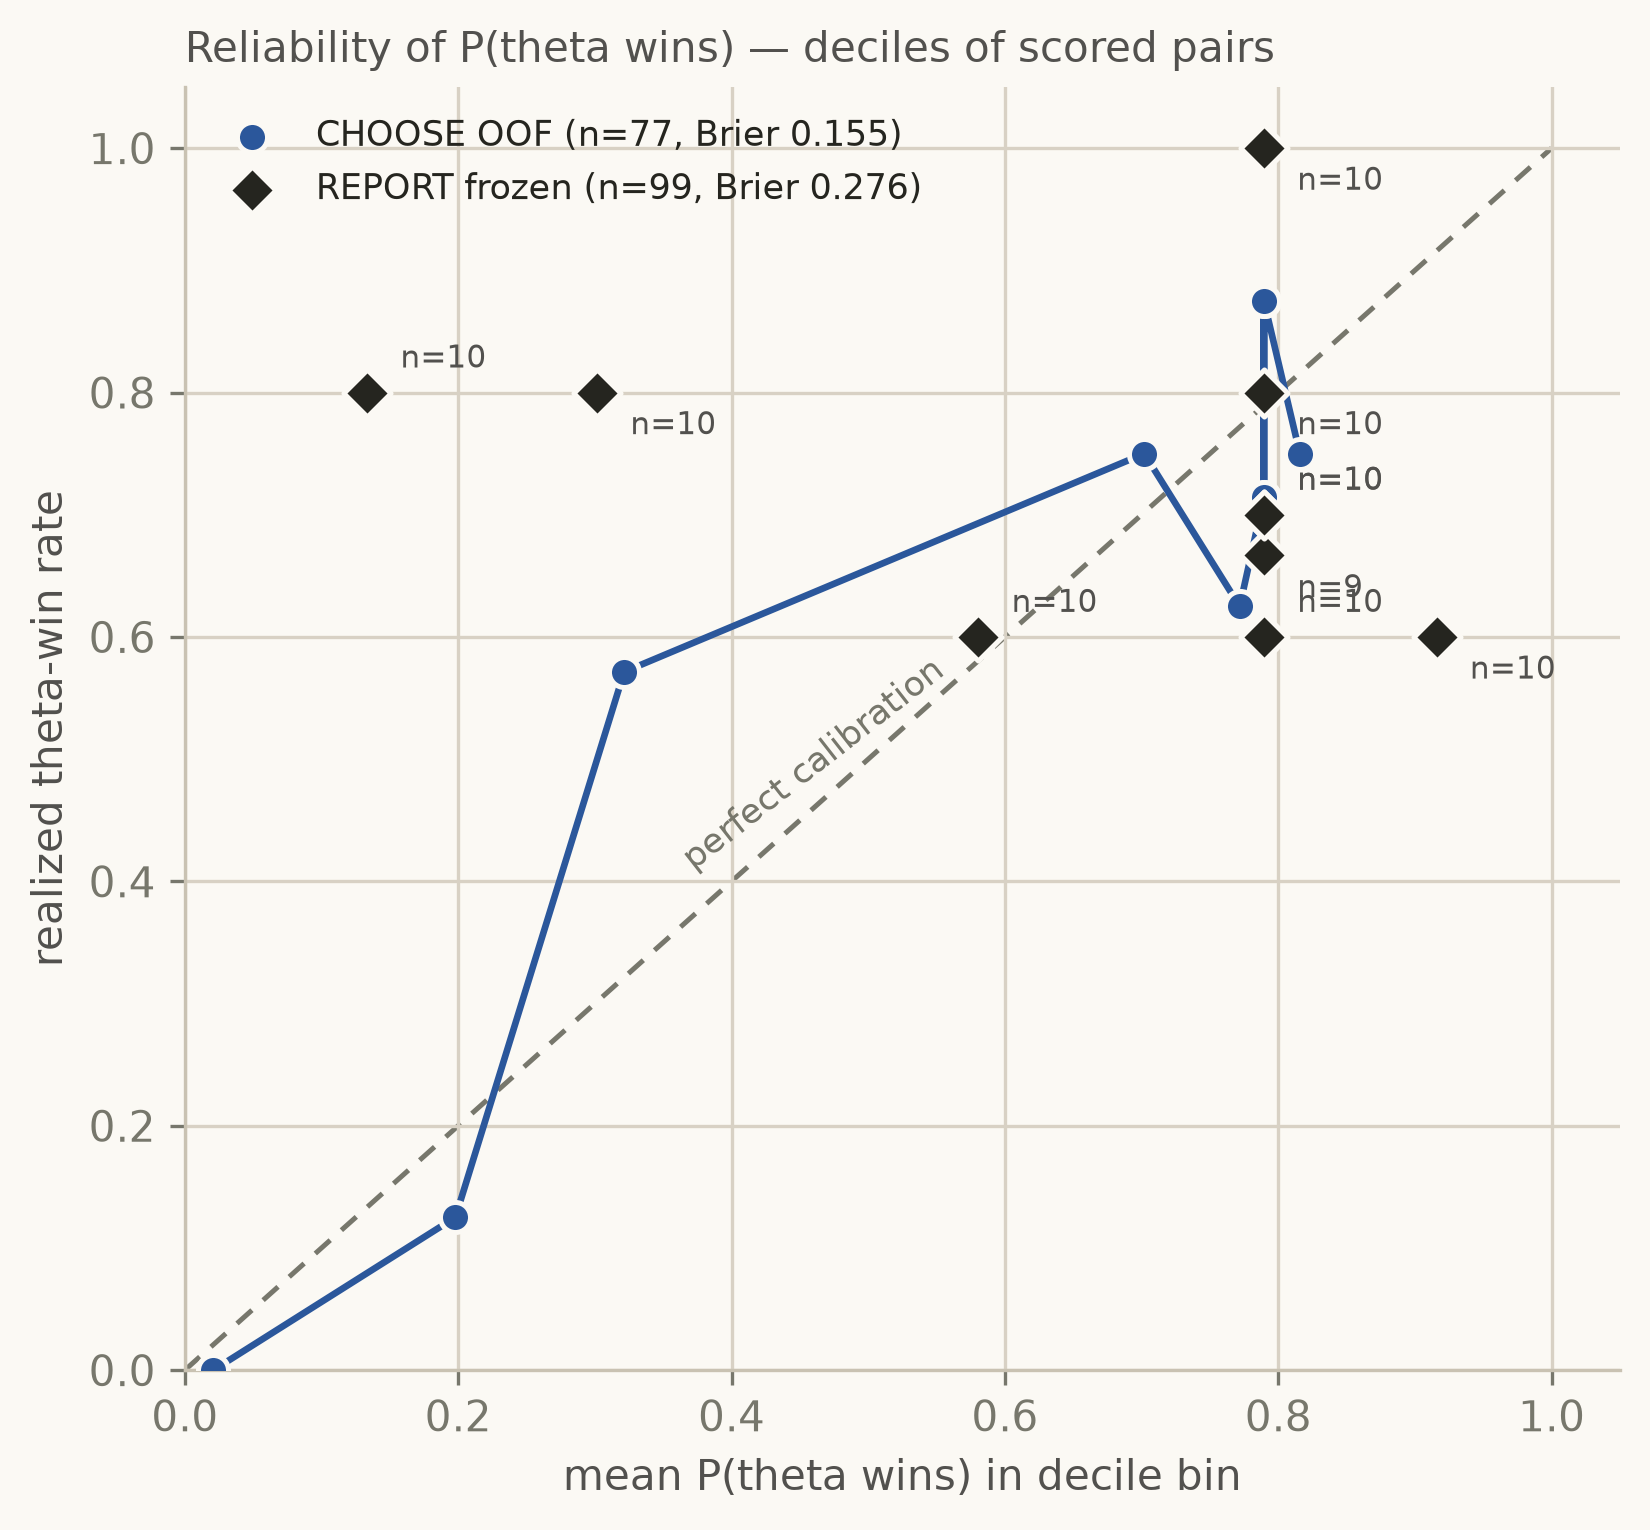
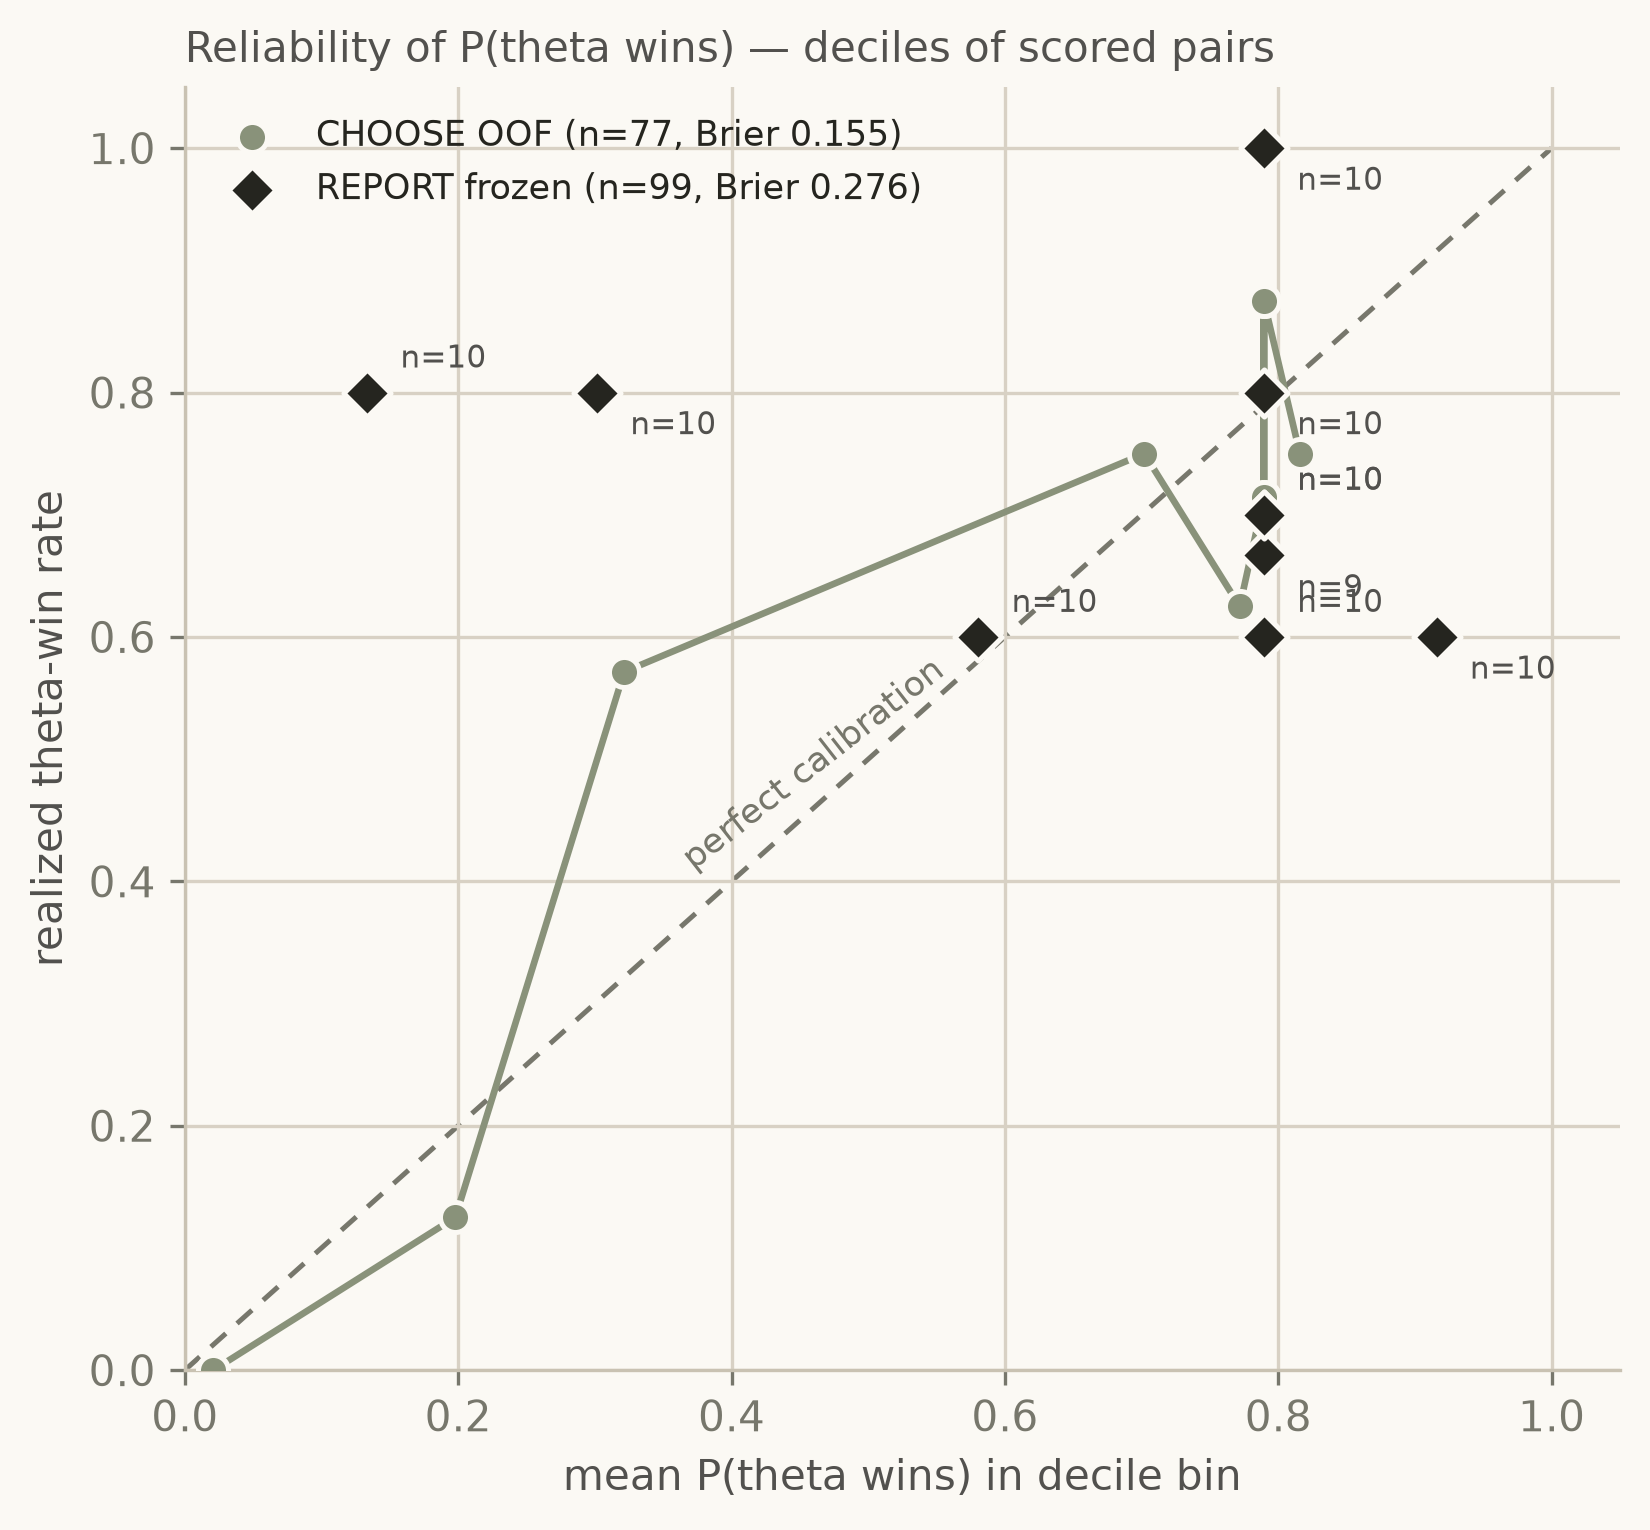
Figures and lab adopt the muted pastel theme palette
Owner direction: the theme's own anchors - sage policy, muted red theta
- plus two soft complements, fuji pale periwinkle naive and yamabuki
muted apricot LightGBM; no dark blue, no gray. All-muted palettes trade
strict categorical-gate compliance for the aesthetic (worst adjacent
pair sage-apricot protan 9.2 / normal 13.6); identity is carried by the
direct value labels, legends, and tooltips every figure and component
provides, plus lightness spread and bar order. Captions say sage.

diff --git a/frontend/src/content/story.ts b/frontend/src/content/story.ts
@@ -219,8 +219,8 @@ export const storyChapters: StoryChapter[] = [
         figure: {
           src: storyImage('policy_categories_report.png'),
           caption:
-            'Per-category WAPE delta, naive minus policy, on the report window; positive (indigo) means the policy was better. Ten of eleven categories improved, and the one loss is sporting goods (−1.55pp).',
-          alt: 'Horizontal bar chart of the WAPE delta per category on the report window; ten indigo positive bars and one crimson negative bar for sporting goods.',
+            'Per-category WAPE delta, naive minus policy, on the report window; positive (sage) means the policy was better. Ten of eleven categories improved, and the one loss is sporting goods (−1.55pp).',
+          alt: 'Horizontal bar chart of the WAPE delta per category on the report window; ten sage positive bars and one crimson negative bar for sporting goods.',
         },
       },
       {
@@ -263,7 +263,7 @@ export const storyChapters: StoryChapter[] = [
         figure: {
           src: storyImage('policy_reliability.png'),
           caption:
-            'Reliability of P(theta wins): CHOOSE out-of-fold deciles (indigo, n=77, Brier 0.155) transfer badly to the report window (diamonds, n=99, Brier 0.276) — worse than always calling theta at the 72.7% base rate. Base-rate-robust calibration is the spec for any future policy.',
+            'Reliability of P(theta wins): CHOOSE out-of-fold deciles (sage, n=77, Brier 0.155) transfer badly to the report window (diamonds, n=99, Brier 0.276) — worse than always calling theta at the 72.7% base rate. Base-rate-robust calibration is the spec for any future policy.',
           alt: 'Reliability diagram comparing CHOOSE out-of-fold probability deciles against the frozen report-window deciles, showing the calibration degradation.',
         },
       },

diff --git a/frontend/src/components/lab/TauSweepSlider.tsx b/frontend/src/components/lab/TauSweepSlider.tsx
@@ -23,7 +23,7 @@ const INK = '#25251f';
 const INK2 = '#52514e';
 const MUTED = '#77776c';
 const GRID = '#d8d1c4';
-const POLICY = '#2b579b';
+const POLICY = '#89927a';
 const CRIMSON = '#a43b36';
 
 const pct = (value: number) => `${(100 * value).toFixed(2)}%`;
@@ -80,7 +80,7 @@ export const TauSweepSlider: FC = () => {
               isAnimationActive={false}
               name="switched policy"
             />
-            <ReferenceLine y={100 * references.naive} stroke="#6b6b66" strokeDasharray="4 3" />
+            <ReferenceLine y={100 * references.naive} stroke="#9db4d0" strokeDasharray="4 3" />
             <ReferenceLine y={100 * references.theta} stroke={CRIMSON} strokeDasharray="4 3" />
             <ReferenceLine y={100 * references.blend} stroke="#b86a62" strokeDasharray="4 3" />
             <ReferenceLine
@@ -121,7 +121,7 @@ export const TauSweepSlider: FC = () => {
           step={0.02}
           value={tau}
           onChange={(e) => setTau(Number(e.target.value))}
-          className="h-1 w-full cursor-pointer accent-[#2b579b]"
+          className="h-1 w-full cursor-pointer accent-[#89927a]"
           aria-label="policy threshold tau"
         />
         <span className="w-14 shrink-0 font-mono text-sm" style={{ color: INK2 }}>

diff --git a/frontend/src/content/lab.ts b/frontend/src/content/lab.ts
@@ -194,10 +194,10 @@ export const gateCandidates: GateCandidate[] = [
 ];
 
 export const MODEL_COLORS: Record<string, string> = {
-  seasonal_naive: '#6b6b66',
-  global_lightgbm: '#d4708c',
+  seasonal_naive: '#9db4d0',
+  global_lightgbm: '#d9a05e',
   theta_method: '#a43b36',
-  regime_switch_policy: '#2b579b',
+  regime_switch_policy: '#89927a',
 };
 
 export const MODEL_LABELS: Record<string, string> = {
